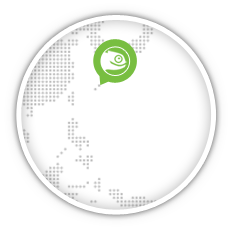
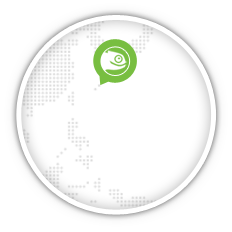
Add Barcelona and London to Hack Week map

diff --git a/index.html b/index.html
@@ -348,6 +348,14 @@
 
             </div>
 
+            <div id="london" class="location">
+
+            </div>
+
+            <div id="barcelona" class="location">
+
+            </div>
+
             <div id="provo-zoom" class="location-zoom">
                <span class="office-location">Provo</span>
                <!--<span class="office-address">1800 South Novell Place</span>-->
@@ -388,6 +396,20 @@
                 <!--<span class="office-address">Room 3603-3606</span>-->
                 <span class="office-phone">+886 2 2376 0000</span>
                 <span class="office-map"><a href="http://maps.google.com/maps?q=Section+2,+D%C5%ABnhu%C3%A0+South+Rd+%26+Lane+216,+S%C3%ACw%C3%A9i+Rd,+Daan+District,+Taipei+City,+Taiwan+106&hl=en&ie=UTF8&ll=25.025884,121.548529&spn=0.036009,0.066047&sll=25.165173,121.640625&sspn=120.896145,270.527344&geocode=FVrdfQEd8K4-Bw&hnear=Section+2,+D%C5%ABnhu%C3%A0+South+Rd+%26+Lane+216,+S%C3%ACw%C3%A9i+Rd,+Daan+District,+Taipei+City,+Taiwan+106&t=m&z=15" target="_blank">Local map</a></span>
+            </div>
+
+            <div id="london-zoom" class="location-zoom">
+                <span class="office-location not-office-location">London</span>
+                <!--<span class="office-address">Room 3603-3606</span>-->
+                <span class="office-phone"></span>
+                <span class="office-map not-office-address"><a href="http://goo.gl/maps/cQeTu" target="_blank">Local map</a></span>
+            </div>
+
+            <div id="barcelona-zoom" class="location-zoom">
+                <span class="office-location not-office-location">Barcelona</span>
+                <!--<span class="office-address">Room 3603-3606</span>-->
+                <span class="office-phone"></span>
+                <span class="office-map not-office-address"><a href="http://goo.gl/maps/pSzwx" target="_blank">Local map</a></span>
             </div>
 
         </div>

diff --git a/css/hackweek.css b/css/hackweek.css
@@ -853,6 +853,54 @@ span:hover{
     display: none;
     z-index: 100;
 }
+#london{
+    background: url('../images/pin.png');
+    height: 38px;
+    left: 50%;
+    margin-left: -53px;
+    margin-top: 161px;
+    position: inherit;
+    width: 33px;
+    cursor: pointer;
+}
+#london-zoom{
+    background: url('../images/london.png');
+    background-repeat: no-repeat;
+    background-position: 23px center;
+    background-size: 80% auto;
+    left: 50%;
+    margin-left: -139px;
+    margin-top: 47px;
+    position: inherit;
+    width: 232px;
+    height: 232px;
+    display: none;
+    z-index: 100;
+}
+#barcelona{
+    background: url('../images/pin.png');
+    height: 38px;
+    left: 50%;
+    margin-left: -45px;
+    margin-top: 203px;
+    position: inherit;
+    width: 33px;
+    cursor: pointer;
+}
+#barcelona-zoom{
+    background: url('../images/barcelona.png');
+    background-repeat: no-repeat;
+    background-position: 23px center;
+    background-size: 80% auto;
+    left: 50%;
+    margin-left: -139px;
+    margin-top: 105px;
+    position: inherit;
+    width: 232px;
+    height: 232px;
+    display: none;
+    z-index: 100;
+}
 .office-location {
     color: #7C817F;
     font-size: 25px;
@@ -888,6 +936,12 @@ span:hover{
     position: inherit;
     text-align: center;
     width: 232px;
+}
+.not-office-location{
+    margin-top: 103px;
+}
+.not-office-address{
+    margin-top: 142px;
 }
 #where-title{
     position: absolute;
